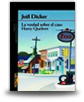
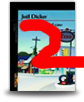
- funciona hasta libro 3 -metiedo imagenes peq y grandes -metido AUTOR como parametro en json y se muestra en html

Changed region(s): [[0.2143, 0.1765, 1.0, 0.6765]]

diff --git a/index.html b/index.html
@@ -76,7 +76,7 @@
             
           	<div id="book_content">
             	<p id="titulo"></p>
-                <p>Arturo Pérez-Reverte</p>
+                <p id="autor"></p>
                 <p id="descripcion"></p>
                 
               <a href="#" style=""><img src="img/button.jpg" width="107" height="37" alt="Cómpralo para eBook" /></a>
@@ -90,23 +90,15 @@
         <!--Shelf--> 
         <div id="shelf">
         	<ul>
-            	<li><img id="libro1" src="img/book2.png" width="84" height="102" /></li>
-                <li><img id="libro2" src="img/book2.png" width="84" height="102" /></li>
-                <li><a href="#"><img src="img/book2.png" width="84" height="102" /></a></li>
-                <li><a href="#"><img src="img/book2.png" width="84" height="102" /></a></li>
-                <li><a href="#"><img src="img/book2.png" width="84" height="102" /></a></li>
-                <li><a href="#"><img src="img/book2.png" width="84" height="102" /></a></li>
-                <li><a href="#"><img src="img/book2.png" width="84" height="102" /></a></li>
+                <li><img id="libro1" src="img/book1.png" width="84" height="102" /></li>
+            	<li><img id="libro2" src="img/book2.png" width="84" height="102" /></li>
+                <li><img id="libro3" src="img/book3.png" width="84" height="102" /></li>
+                <li><a href="#"><img src="img/book4.png" width="84" height="102" /></a></li>
+                <li><a href="#"><img src="img/book5.png" width="84" height="102" /></a></li>
+                <li><a href="#"><img src="img/book6.png" width="84" height="102" /></a></li>
+                <li><a href="#"><img src="img/book7.png" width="84" height="102" /></a></li>
             </ul>         	
         </div><!--End Shelf-->
-        
-    <div class="change_libros_peq"><!--Libros pequeños que hacen de Menu-->
-
-        <img id="libro1" src="img/arturo_perez_reverte_el_francotirador_pacientep.jpg" width="40" height="31" />
-        <img id="libro2" src="img/juil_dyler_la_unidad_nilog_al_sima_hongo_ajunjenp.jpg" width="40" height="31" />
-    </div><!--End de "Libros pequeños que hacen de Menu"-->
-
-
         <!--Bar-->
         <div id="bar"></div><!--Bar ending-->     
     

diff --git a/js/json.js b/js/json.js
@@ -1,13 +1,13 @@
 var libros=
 {
   "libro1": {
-    "publicado":true,
+    "publicado":"si",
     "autor" : "Arturo Pérez-Reverte",
     "titulo": "El Francotirador Paciente",
     "descripcion": "La ciudad dddd es un campo de batalla. Un artista callejero lanza desafíos como si fueran bombas. El único arte posible es un ajuste de cuentas.",
     "link_ebook": "http://link_ebook_libro1.com",
     "link_comprar": "http://link_comprar_libro1.com",
-    "path_img": "img/book1.png",
+    "path_img": "img/book1g.png",
     "cajas":[
       {"sobre_el_autor":{"text":"1111sñakfsdñ", "path_img":"toe"}},
       {"sabias_que":{"text":"2222sasñakfsdñ", "path_img":"toe"}},
@@ -24,13 +24,29 @@ var libros=
     ]
   },
   "libro2": {
-    "publicado":true,
-    "autor" : "Arturo Pérez-Reverte",
+    "publicado":"si",
+    "autor" : "222222-Reverte",
     "titulo": "Ad consequat mollit",
     "descripcion": "2MMMMMM222S Lorem ipsum Ad consequat mollit proident veniam Ut quis aute sed sit ullamco commodo occaecat eiusmod commodo in exercitation.",
     "link_ebook": "http://link_ebook_libro2.com",
     "link_comprar": "http://link_comprar_libro2.com",
-    "path_img": "img/juil_dyler_la_unidad_nilog_al_sima_hongo_ajunjen.jpg",
+    "path_img": "img/book2g.png",
+    "array": [
+      "valor1",
+      "valor2",
+      "valor3",
+      "valor4",
+      "valor5"
+    ]
+  },
+  "libro3": {
+    "publicado":"si",
+    "autor" : "Arturo Pé3333333",
+    "titulo": "Nisi exercitation repr",
+    "descripcion": "3333S Lorem ipsum Nisi exercitation reprehenderit consequat.Lorem ipsum Nisi exercitation reprehenderit consequat.Lorem ipsum Nisi exercitation reprehenderit consequat.",
+    "link_ebook": "http://link_ebook_libro2.com",
+    "link_comprar": "http://link_comprar_libro2.com",
+    "path_img": "img/book3g.png",
     "array": [
       "valor1",
       "valor2",

diff --git a/js/js.js b/js/js.js
@@ -7,6 +7,11 @@ $(document).ready(function() {
   
   // Detectar cual libro pequeño ha sido clicado, cambiar el contenido de slider_content
   $("#shelf img").click(function() {
+  // TODO arreglar fade in y fade out para que no se muestre el libro cliclado antes del fade in
+  // links: 
+  // http://stackoverflow.com/questions/5248721/jquery-replacewith-fade-animate
+  // http://stackoverflow.com/questions/10627049/jquery-fadein-change-content-and-fadeout-with-opacity
+
     // fade out slider_content
     $(".slider_content").fadeOut();    
     
@@ -27,6 +32,7 @@ function cargarDatosPrincipales(id){
   console.log("cargarDatosPrincipales libro=["+id+"]");
   $('#path_img').html('<img src="'+libros[id].path_img+'">');
   $('#titulo').html(libros[id].titulo);
+  $('#autor').html(libros[id].autor);
   $('#descripcion').html(libros[id].descripcion);
   $('#link_ebook').html('<a href="'+libros[id].link_ebook+'">link_ebook</a>');
   $('#link_comprar').html('<a href="'+libros[id].link_comprar+'">link_comprar</a>');
